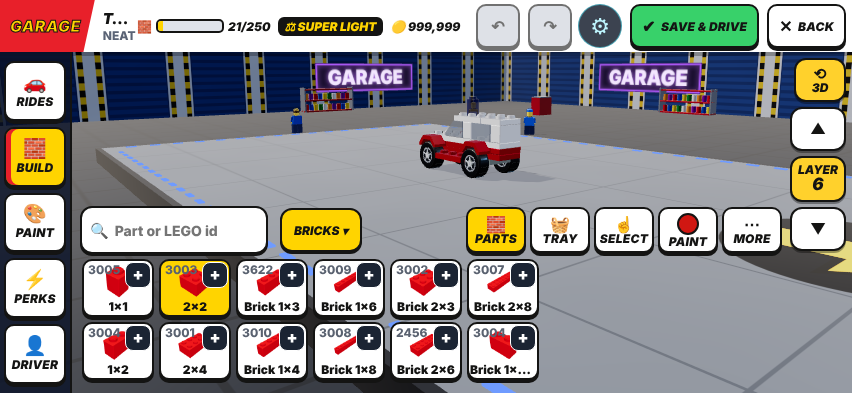
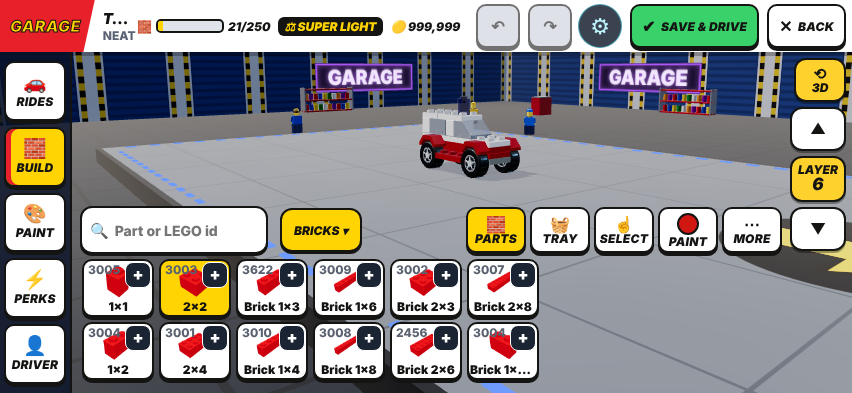
veh: Town Coupe (LEGO 606 Classic Town Car, fix: facing forward with --yaw 3, LDraw by Takeshi Takahashi, CCAL 2.0) as RIDES preset t_v606_1
Claude-Session: https://claude.ai/code/session_01EyTkWHVhqPJ5PdrDtAmH7s

Changed region(s): [[0.4883, 0.2443, 0.6103, 0.4275]]

diff --git a/src/98ld_v_606-1.js b/src/98ld_v_606-1.js
@@ -1,7 +1,7 @@
 // ---- LD data: real LEGO builds converted from LDraw OMR files (CCAL 2.0) by tools/ld/ld2garage.py + tools/ld/ld2src.py. Generated, do not edit.
 // Authors of the LDraw files: 606-1.mpd Takeshi Takahashi [RainbowDolphin]Takeshi Takahashi (RainbowDolphin). Details: docs/MODEL_PIPELINE.md.
[1 lines of base64/hex data omitted]
-Object.assign(LD_MODELS,{"v606_1":{"src":"606-1.mpd","by":"Takeshi Takahashi (RainbowDolphin)","n":21,"C":["#b40000","#f4f4f4","#8a928d","#1b2a34","~#fcfcfc","~#0020a0"],"B":[["p28",-1,-4,4,2,0,0],["p23",-1,-1,5,2,0,0],["p12",-1,-4,5,3,0,0],["ld3787",-2,2,5,0,0,0],["ld3787",-2,-3,5,0,0,0],["p28",-1,-4,6,2,0,1],["p23",0,-1,3,2,0,0],["p23",-2,-1,3,2,0,0],["ld122",-2,2,2,0,0,2],["ld122",-2,-3,2,0,0,2],["wS",1,1,1,0,0,3,0,-0.25,0],["wS",1,-4,1,0,0,3,0,-0.25,0],["wS",-2,1,1,0,0,3,0,-0.25,0],["wS",-2,-4,1,0,0,3,0,-0.25,0],["s22",-1,0,7,2,0,4,0,0.062,0],["b12",-1,-1,7,3,0,1],["b12",-1,-4,7,3,0,1],["b22",-1,-3,7,2,0,4],["p23",-1,-2,10,2,0,1],["p22",-1,-4,10,2,0,1],["round",0,0,11,0,0,5,-0.5,0,-0.5]]}});
+Object.assign(LD_MODELS,{"v606_1":{"src":"606-1.mpd","by":"Takeshi Takahashi (RainbowDolphin)","n":21,"C":["#b40000","#f4f4f4","#8a928d","#1b2a34","~#fcfcfc","~#0020a0"],"B":[["p28",-1,-3,4,0,0,0],["p23",-1,-1,5,0,0,0],["p12",-1,4,5,1,0,0],["ld3787",-2,-3,5,2,0,0],["ld3787",-2,2,5,2,0,0],["p28",-1,-3,6,0,0,1],["p23",-2,-1,3,0,0,0],["p23",0,-1,3,0,0,0],["ld122",-2,-3,2,2,0,2],["ld122",-2,2,2,2,0,2],["wS",-2,-4,1,0,0,3,0,-0.25,0],["wS",-2,1,1,0,0,3,0,-0.25,0],["wS",1,-4,1,0,0,3,0,-0.25,0],["wS",1,1,1,0,0,3,0,-0.25,0],["s22",-1,-1,7,0,0,4,0,0.062,0],["b12",-1,1,7,1,0,1],["b12",-1,4,7,1,0,1],["b22",-1,2,7,0,0,4],["p23",-1,0,10,0,0,1],["p22",-1,3,10,0,0,1],["round",0,0,11,2,0,5,-0.5,0,0.5]]}});
 for(const k of ["ld122", "ld3787"]){const D=LD_MESH[k];if(!GB_PC[k]){GB_PC[k]={n:D.n.replace(/^~/,''),w:D.w,d:D.d,h:D.h,cat:'LDraw',ic:'◆',hide:1,s:D.s.some(q=>!q[3])};G13_ID[k]=D.id}}
 {const R=GAR_set('rod'),L=n=>JSON.parse(JSON.stringify(R.load[n]));
  GAR_SETS.push({id:'t_v606_1',n:"Town Coupe (606)",tier:'c',req:null,car:()=>LD_br('v606_1'),off:R.off,boat:R.boat,tpl:1,ref:'606',forms:['car'],
